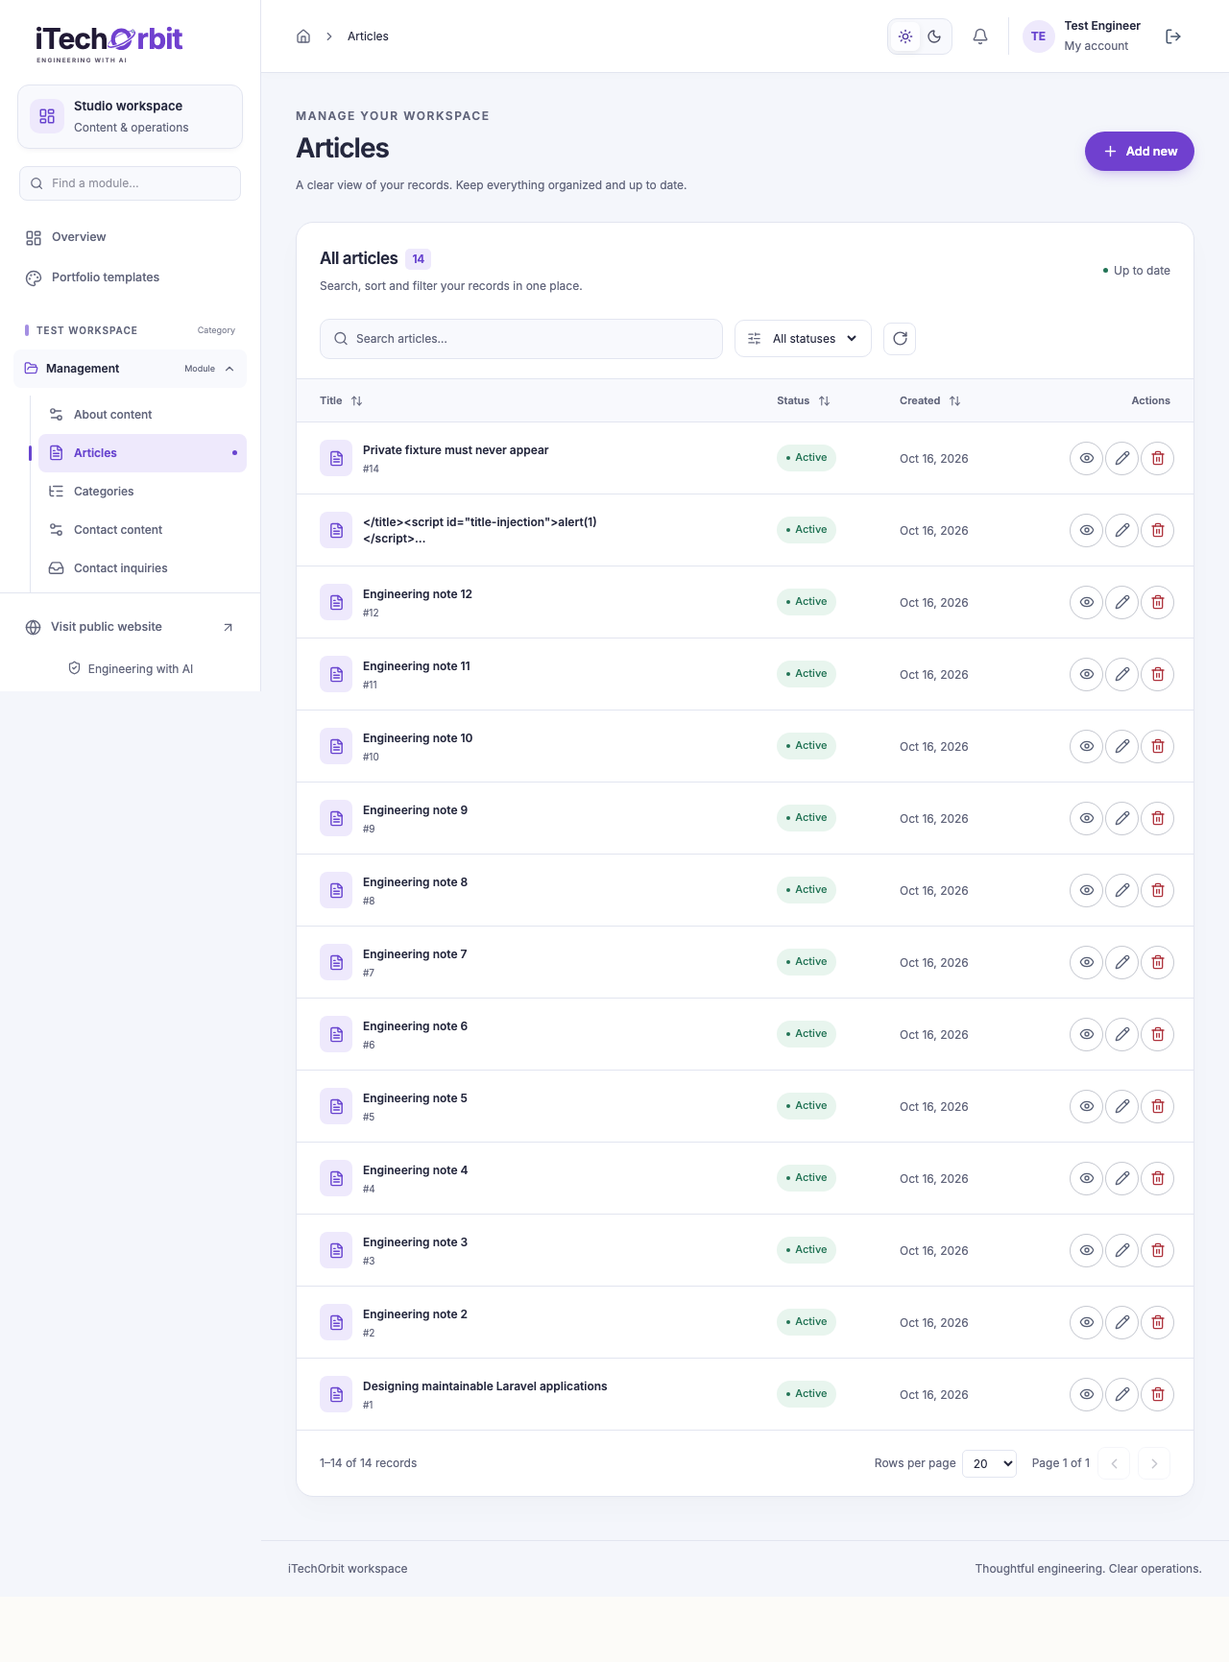
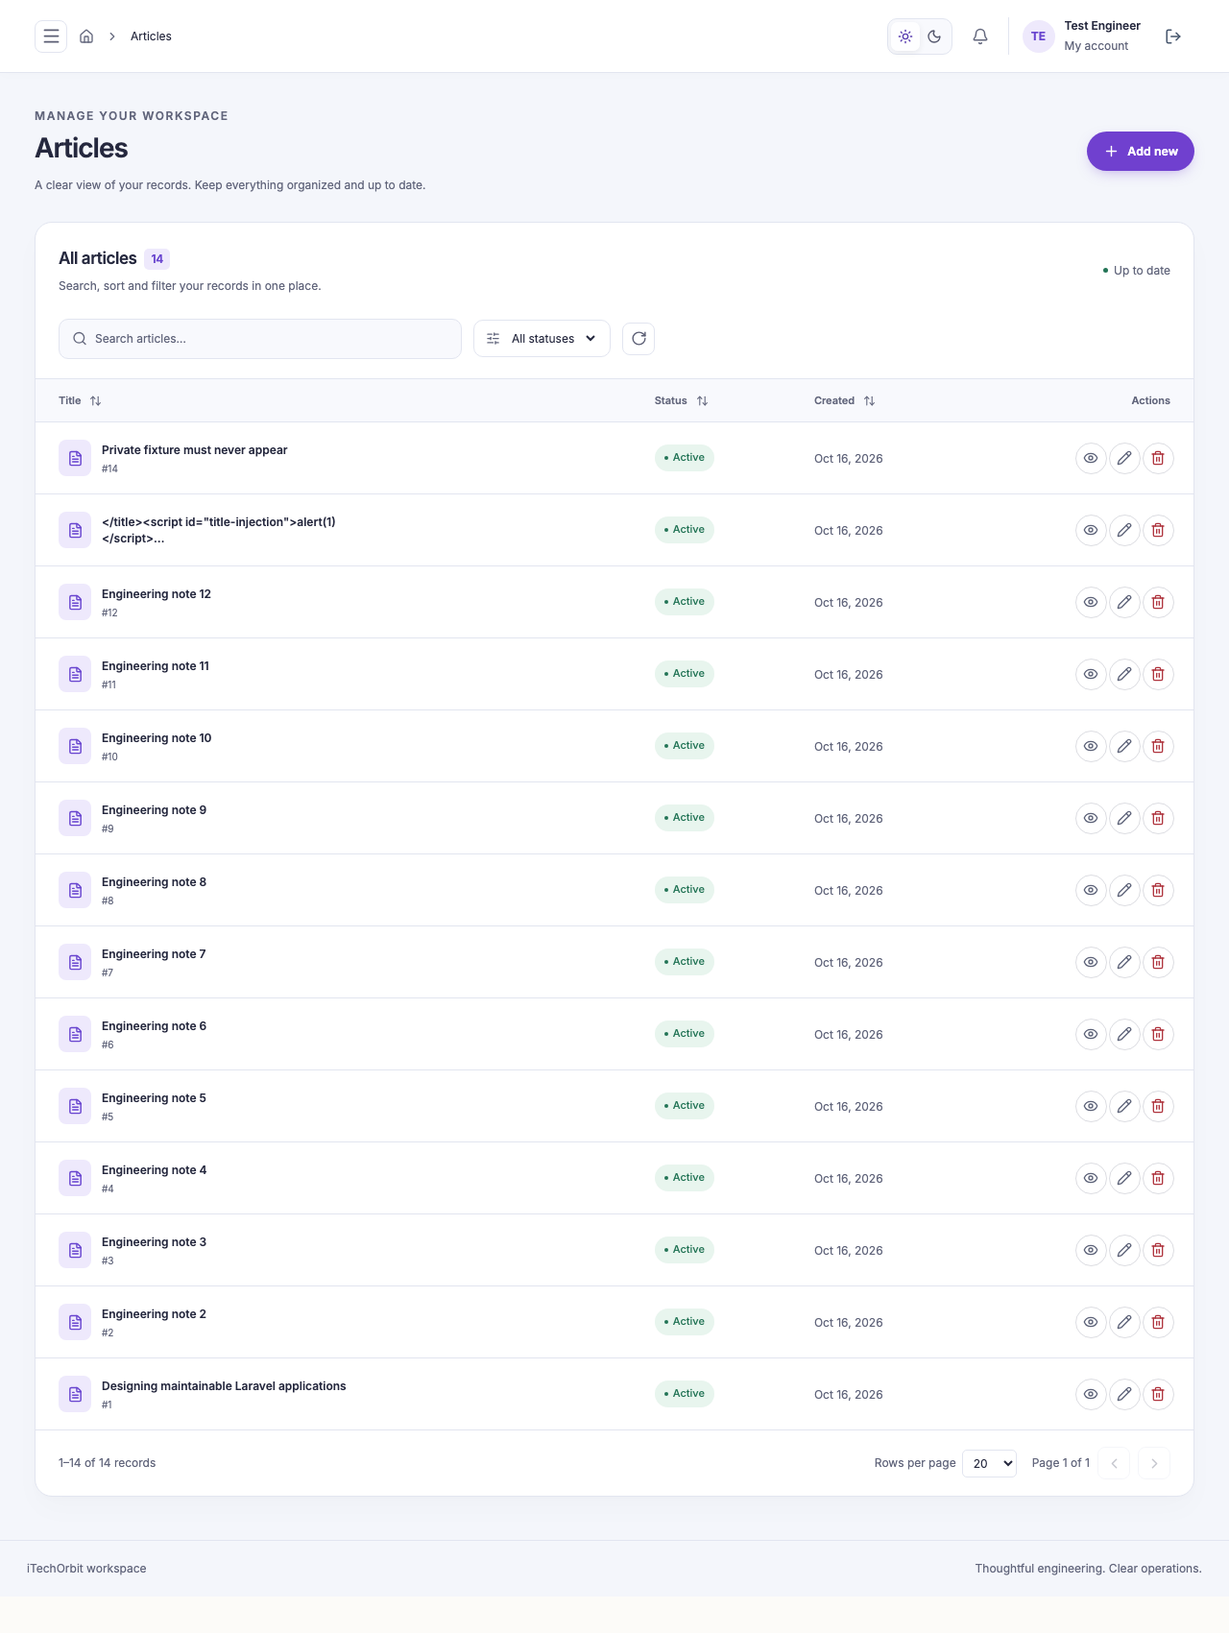
Start workspace sidebar collapsed at every viewport

diff --git a/resources/js/layouts/AdminLayout.tsx b/resources/js/layouts/AdminLayout.tsx
@@ -26,10 +26,8 @@ export default function AdminLayout({ children, title, navigation }: { children:
       if (event.shiftKey && document.activeElement === first) { event.preventDefault(); last?.focus(); }
       else if (!event.shiftKey && document.activeElement === last) { event.preventDefault(); first?.focus(); }
     };
-    const desktop = window.matchMedia('(min-width: 1024px)');
-    const resize = () => { if (desktop.matches) setOpen(false); };
-    document.addEventListener('keydown', keys); desktop.addEventListener('change', resize);
-    return () => { document.body.style.overflow = previous; document.removeEventListener('keydown', keys); desktop.removeEventListener('change', resize); };
+    document.addEventListener('keydown', keys);
+    return () => { document.body.style.overflow = previous; document.removeEventListener('keydown', keys); };
   }, [open]);
   const groups = new Map<string, Map<string, Navigation>>();
   for (const item of navigation.filter(item => `${item.label} ${item.group ?? ''} ${item.module ?? ''}`.toLowerCase().includes(search.toLowerCase()))) {
@@ -43,7 +41,7 @@ export default function AdminLayout({ children, title, navigation }: { children:
   const initials = auth.user?.name.trim().split(/\s+/).slice(0, 2).map(word => word[0]).join('').toUpperCase();
   return <div className="workspace" data-theme={theme}><Head title={`${title} | iTechOrbit workspace`}><meta name="robots" content="noindex,nofollow" /></Head><a className="skip-link" href="#main">Skip to content</a>
     {open && <button className="workspace-overlay" aria-label="Close workspace overlay" onClick={() => { setOpen(false); trigger.current?.focus(); }} />}
-    <aside ref={aside} className={`workspace-sidebar ${open ? 'is-open' : ''}`} role={open ? 'dialog' : undefined} aria-modal={open || undefined} aria-label="Workspace sidebar"><div className="workspace-sidebar-brand"><Link href="/home" className="brand workspace-brand" aria-label="iTechOrbit workspace" onClick={() => setOpen(false)}><BrandLogo /></Link><button className="workspace-mobile-close workspace-icon-button" aria-label="Close workspace navigation" onClick={() => { setOpen(false); trigger.current?.focus(); }}><X size={19} /></button></div>
+    <aside id="workspace-sidebar" ref={aside} className={`workspace-sidebar ${open ? 'is-open' : ''}`} role={open ? 'dialog' : undefined} aria-modal={open || undefined} aria-label="Workspace sidebar"><div className="workspace-sidebar-brand"><Link href="/home" className="brand workspace-brand" aria-label="iTechOrbit workspace" onClick={() => setOpen(false)}><BrandLogo /></Link><button className="workspace-mobile-close workspace-icon-button" aria-label="Close workspace navigation" onClick={() => { setOpen(false); trigger.current?.focus(); }}><X size={19} /></button></div>
       <div className="workspace-sidebar-context"><span className="workspace-context-icon"><LayoutDashboard size={18} /></span><div><strong>Studio workspace</strong><span>Content & operations</span></div></div>
       <label className="workspace-sidebar-search"><Search size={16} aria-hidden="true" /><input aria-label="Find a module" value={search} onChange={event => setSearch(event.target.value)} placeholder="Find a module…" /></label>
       <nav className="workspace-navigation" aria-label="Workspace navigation"><Link href="/home" onClick={() => setOpen(false)} className={`workspace-nav-link ${current === 'home' ? 'is-current' : ''}`} aria-current={current === 'home' ? 'page' : undefined}><LayoutDashboard size={18} /><span>Overview</span></Link><Link href="/workspace/portfolio-templates" onClick={() => setOpen(false)} className={`workspace-nav-link ${url.startsWith('/workspace/portfolio-templates') ? 'is-current' : ''}`} aria-current={url.startsWith('/workspace/portfolio-templates') ? 'page' : undefined}><Palette size={18} /><span>Portfolio templates</span></Link>
@@ -51,6 +49,6 @@ export default function AdminLayout({ children, title, navigation }: { children:
         {!groups.size && <p className="workspace-nav-empty">No matching modules.</p>}
       </nav><div className="workspace-sidebar-footer"><SiteLink href="/" className="workspace-nav-link"><Globe size={17} /><span>Visit public website</span><ArrowUpRight size={15} /></SiteLink><div><ShieldCheck size={15} /><span>Engineering with AI</span></div></div>
     </aside>
-    <div className="workspace-body"><header className="workspace-topbar"><div className="workspace-topbar-start"><button ref={trigger} className="workspace-mobile-trigger workspace-icon-button" aria-label="Open workspace navigation" aria-expanded={open} onClick={() => setOpen(true)}><Menu size={21} /></button><div className="workspace-breadcrumb"><Link href="/home" aria-label="Workspace overview"><Home size={16} /></Link><ChevronRight size={14} /><span>{title}</span></div></div><div className="workspace-topbar-actions"><div className="workspace-theme-switch" role="group" aria-label="Workspace appearance"><button type="button" aria-label="Light theme" aria-pressed={theme === 'light'} title="Light theme" onClick={() => setTheme('light')}><Sun size={16} /></button><button type="button" aria-label="Dark theme" aria-pressed={theme === 'dark'} title="Dark theme" onClick={() => setTheme('dark')}><Moon size={16} /></button></div>{navigation.some(item => item.url === '/contacts') && <Link href="/contacts" aria-label="Contact inquiries" className="workspace-inbox-link"><Bell size={18} /></Link>}<Link href="/account/settings" className="workspace-user" aria-label="Account settings"><span>{initials || 'U'}</span><div><strong>{auth.user?.name}</strong><small>My account</small></div></Link><Button variant="ghost" size="icon" aria-label="Sign out" onClick={() => router.post('/logout')}><LogOut size={18} /></Button></div></header><main id="main" className="workspace-main">{children}</main><footer className="workspace-footer"><span>iTechOrbit workspace</span><span>Thoughtful engineering. Clear operations.</span></footer></div>
+    <div className="workspace-body"><header className="workspace-topbar"><div className="workspace-topbar-start"><button ref={trigger} className="workspace-mobile-trigger workspace-icon-button" aria-label="Open workspace navigation" aria-controls="workspace-sidebar" aria-expanded={open} onClick={() => setOpen(true)}><Menu size={21} /></button><div className="workspace-breadcrumb"><Link href="/home" aria-label="Workspace overview"><Home size={16} /></Link><ChevronRight size={14} /><span>{title}</span></div></div><div className="workspace-topbar-actions"><div className="workspace-theme-switch" role="group" aria-label="Workspace appearance"><button type="button" aria-label="Light theme" aria-pressed={theme === 'light'} title="Light theme" onClick={() => setTheme('light')}><Sun size={16} /></button><button type="button" aria-label="Dark theme" aria-pressed={theme === 'dark'} title="Dark theme" onClick={() => setTheme('dark')}><Moon size={16} /></button></div>{navigation.some(item => item.url === '/contacts') && <Link href="/contacts" aria-label="Contact inquiries" className="workspace-inbox-link"><Bell size={18} /></Link>}<Link href="/account/settings" className="workspace-user" aria-label="Account settings"><span>{initials || 'U'}</span><div><strong>{auth.user?.name}</strong><small>My account</small></div></Link><Button variant="ghost" size="icon" aria-label="Sign out" onClick={() => router.post('/logout')}><LogOut size={18} /></Button></div></header><main id="main" className="workspace-main">{children}</main><footer className="workspace-footer"><span>iTechOrbit workspace</span><span>Thoughtful engineering. Clear operations.</span></footer></div>
   </div>;
 }

diff --git a/tests/browser/website.spec.ts b/tests/browser/website.spec.ts
@@ -70,11 +70,14 @@ test('contact validation and successful inquiry', async ({ page }) => {
 test('authentication, admin CRUD, inbox and permission interface', async ({ page, isMobile }) => {
   await page.goto('/posts'); await expect(page).toHaveURL(/\/login$/);
   await page.getByLabel('Email address').fill('admin@example.test'); await page.getByLabel('Password', { exact: true }).fill('Browser-test-password-42'); await page.getByRole('button', { name: 'Sign in', exact: true }).click(); await expect(page).toHaveURL(/\/(home|posts)$/);
-  if (isMobile) await page.getByRole('button', { name: 'Open workspace navigation', exact: true }).click();
+  await expect(page.getByRole('button', { name: 'Open workspace navigation', exact: true })).toHaveAttribute('aria-expanded', 'false');
+  await expect(page.locator('.workspace-sidebar')).toBeHidden();
+  await page.getByRole('button', { name: 'Open workspace navigation', exact: true }).click();
   const workspaceLogo = page.getByRole('link', { name: 'iTechOrbit workspace', exact: true }).getByRole('img');
   await expect(workspaceLogo).toBeVisible();
   await expect.poll(() => workspaceLogo.evaluate((image: HTMLImageElement) => image.complete && image.naturalWidth > 0)).toBeTruthy();
-  if (isMobile) await page.getByRole('button', { name: 'Close workspace navigation', exact: true }).click();
+  await page.getByRole('button', { name: 'Close workspace navigation', exact: true }).click();
+  await expect(page.locator('.workspace-sidebar')).toBeHidden();
   await page.goto('/posts/create'); await page.getByLabel('Title *', { exact: true }).fill(`Browser CRUD ${isMobile ? 'mobile' : 'desktop'}`); await page.getByLabel('Category *', { exact: true }).selectOption({ label: 'Laravel' }); await page.getByLabel('Body *', { exact: true }).fill('<p>Browser regression article.</p>'); await page.getByRole('button', { name: 'Save changes' }).click(); await expect(page).toHaveURL(/\/posts$/);
   const title = `Browser CRUD ${isMobile ? 'mobile' : 'desktop'}`; await page.getByRole('link', { name: `Edit ${title}`, exact: true }).click(); await page.getByLabel('Title *', { exact: true }).fill(title + ' revised'); await page.getByRole('button', { name: 'Save changes' }).click(); await expect(page).toHaveURL(/\/posts$/); await page.getByRole('button', { name: `Delete ${title} revised`, exact: true }).click(); await expect(page.getByRole('dialog')).toBeVisible(); await page.getByRole('button', { name: 'Delete record', exact: true }).click(); await expect(page.getByText(title + ' revised', { exact: true })).toHaveCount(0);
   await page.goto('/contacts'); await expect(page.getByRole('heading', { level: 1 })).toHaveText('Contact inquiries'); await page.goto('/permissions'); await expect(page.getByLabel('Select role')).toBeVisible(); await page.getByLabel('Select role').selectOption('4'); await expect(page.getByRole('heading', { level: 1 })).toHaveText('Roles & permissions');
@@ -207,14 +210,16 @@ test('header sign-in and account dropdown support profile settings and logout', 
   await page.goto('/account/settings'); await expect(page).toHaveURL(/\/login$/);
 });
 
-test('workspace tables load server-side search sorting pagination and recover from errors', async ({ page, isMobile }, testInfo) => {
+test('workspace tables load server-side search sorting pagination and recover from errors', async ({ page }, testInfo) => {
   await page.goto('/login'); await page.getByLabel('Email address').fill('admin@example.test'); await page.getByLabel('Password', { exact: true }).fill('Browser-test-password-42'); await page.getByRole('button', { name: 'Sign in', exact: true }).click(); await expect(page).toHaveURL(/\/home$/);
   await page.getByRole('button', { name: 'Dark theme', exact: true }).click();
   await expect(page.locator('.workspace')).toHaveAttribute('data-theme', 'dark');
   await page.reload();
   await expect(page.locator('.workspace')).toHaveAttribute('data-theme', 'dark');
   await page.screenshot({ path: testInfo.outputPath('admin-dashboard.png'), fullPage: true });
-  if (isMobile) await page.getByRole('button', { name: 'Open workspace navigation', exact: true }).click();
+  await expect(page.getByRole('button', { name: 'Open workspace navigation', exact: true })).toHaveAttribute('aria-expanded', 'false');
+  await expect(page.locator('.workspace-sidebar')).toBeHidden();
+  await page.getByRole('button', { name: 'Open workspace navigation', exact: true }).click();
   await expect(page.getByRole('navigation', { name: 'Workspace navigation' }).getByText('Test workspace', { exact: true })).toBeVisible();
   await expect(page.locator('.workspace-module-label').first()).toHaveText('Module');
   await expect(page.locator('.workspace-nav-group>p small').first()).toHaveText('Category');
@@ -225,7 +230,9 @@ test('workspace tables load server-side search sorting pagination and recover fr
   await expect(page.getByRole('navigation', { name: 'Workspace navigation' }).getByRole('link', { name: 'Articles', exact: true })).toBeVisible();
   await expect(page.getByRole('navigation', { name: 'Workspace navigation' }).getByRole('link', { name: 'Categories', exact: true })).toHaveCount(0);
   await page.getByLabel('Find a module').fill('');
-  if (isMobile) await page.keyboard.press('Escape');
+  await page.keyboard.press('Escape');
+  await expect(page.locator('.workspace-sidebar')).toBeHidden();
+  await expect(page.getByRole('button', { name: 'Open workspace navigation', exact: true })).toBeFocused();
   await page.goto('/posts');
   await expect(page.locator('.workspace')).toHaveAttribute('data-theme', 'dark');
   await page.evaluate(() => { document.documentElement.dataset.tableDocument = 'retained'; });
@@ -312,7 +319,9 @@ test('portfolio template studio previews five layouts and persists the public se
   test.setTimeout(60000); // Five themes, twenty section-anchor checks and public return navigation.
   const errors: string[] = []; page.on('pageerror', error => errors.push(error.message));
   await page.goto('/login'); await page.getByLabel('Email address').fill('admin@example.test'); await page.getByLabel('Password', { exact: true }).fill('Browser-test-password-42'); await page.getByRole('button', { name: 'Sign in', exact: true }).click(); await expect(page).toHaveURL(/\/home$/);
-  if (isMobile) await page.getByRole('button', { name: 'Open workspace navigation', exact: true }).click();
+  await expect(page.getByRole('button', { name: 'Open workspace navigation', exact: true })).toHaveAttribute('aria-expanded', 'false');
+  await expect(page.locator('.workspace-sidebar')).toBeHidden();
+  await page.getByRole('button', { name: 'Open workspace navigation', exact: true }).click();
   await page.getByRole('link', { name: 'Portfolio templates', exact: true }).click();
   await expect(page.getByRole('radio')).toHaveCount(5);
   await expect(page.getByRole('button', { name: 'Save template', exact: true })).toBeDisabled();

diff --git a/resources/css/admin.css b/resources/css/admin.css
@@ -191,7 +191,7 @@
 .workspace-link-editor button { padding:6px 9px; border-radius:5px; font-size:12px; color:var(--ws-accent); background:var(--ws-accent-soft); }
 .workspace-link-editor p { margin-top:8px; font-size:12px; color:var(--ws-muted); }
 @media(min-width:640px) { .workspace-topbar { padding-inline:30px; } .workspace-main { padding:34px 30px 45px; } .workspace-user div,.workspace-inbox-link { display:block; } .workspace-form-grid,.workspace-record-details { grid-template-columns:repeat(2,minmax(0,1fr)); } .workspace-field.is-wide { grid-column:1/-1; } }
-@media(min-width:1024px) { .workspace-sidebar { display:flex; } .workspace-body { margin-left:272px; } .workspace-mobile-trigger,.workspace-mobile-close,.workspace-overlay { display:none; } .workspace-main { padding:36px 36px 45px; } .workspace-topbar { padding-inline:36px; } }
+@media(min-width:1024px) { .workspace-main { padding:36px 36px 45px; } .workspace-topbar { padding-inline:36px; } }
 @media(min-width:1280px) { .workspace-resource-form { grid-template-columns:minmax(0,1fr) 280px; } }
 @media(max-width:639px) { .workspace-topbar { gap:8px; padding-inline:16px; } .workspace-topbar-actions { gap:5px; } .workspace-breadcrumb { font-size:12px; gap:7px; } .workspace-page-heading h1 { font-size:26px; } .workspace-table-heading,.workspace-table-tools { padding-inline:18px; } .table-live-state { display:none; } .workspace-search { width:100%; } .workspace-table-footer { padding-inline:18px; } .workspace-card-heading,.workspace-form-grid { padding:20px; } .workspace-form-actions>span { display:none; } .workspace-form-actions>div { width:100%; justify-content:flex-end; } }
 .workspace-overview-label { display:flex; align-items:center; gap:7px; color:var(--ws-muted); font-size:12px; }

diff --git a/docs/ADMIN_MODERNIZATION.md b/docs/ADMIN_MODERNIZATION.md
@@ -79,3 +79,7 @@ The existing authenticated server-side endpoint continues to handle debounced se
 51 PHP tests / 1,104 assertions, 3 frontend tests and all 34 browser checks pass, as do TypeScript, ESLint, Pint and client/SSR production builds. Reviewed synthetic captures include [dark table](assets/admin-table-dark-desktop.png), [light table](assets/admin-table-desktop.png), [dark editor](assets/admin-editor-dark-desktop.png) and [mobile editor](assets/admin-editor-dark-mobile.png). Tests verify actual AJAX requests, sorting/search/pagination and error recovery, persistence of both themes, permission-sensitive flows and safe formatting round trips. No Lighthouse score is claimed.
 
 Deploy the matching PHP/config files and rebuilt client/SSR assets using the existing approved staging workflow; refresh the configuration cache if used and restart SSR. There are no new environment variables, migrations or external services. Revert this change and rebuild matching assets/config cache to roll back; saved rich content remains intact, though an older release will omit the new font-size/font-family presentation. No data rollback is required. Production deployment was not performed.
+
+
+## Sidebar default state — 2026-10-16
+The workspace sidebar now starts collapsed on both desktop and mobile. A visible topbar menu button opens the navigation drawer without reserving an empty left column. The same close button, overlay, Escape dismissal, body-scroll lock and focus trap/restoration work at every viewport. Selecting a workspace link closes the drawer. The menu toggle exposes its expanded state and controls the identified sidebar. Existing authorized categories, modules, page links, search and ordering remain available when expanded. The theme preference continues to persist independently of sidebar state. No backend, data or environment changes are required.

diff --git a/docs/COMPLETION_REPORT.md b/docs/COMPLETION_REPORT.md
@@ -223,3 +223,7 @@ Implemented bounded font-size/font-family editor controls, rich-text project con
 Validation: 51 PHP tests / 1,104 assertions, 3 frontend tests, all 34 desktop/mobile browser checks, TypeScript, ESLint, Pint and client/SSR production builds pass. Both themes and the editor/table were visually reviewed using synthetic data; captures are under docs/assets. Tests include safe formatting persistence into public content and reopening, unsafe input removal, theme persistence, actual server-side queries, permissions and regression flows. No real records, environment configuration, production data or deployment were changed. No performance score was measured.
 
 Release/rollback and behavior are documented in ADMIN_MODERNIZATION.md. Deploy matching PHP/config and assets, refresh cached configuration where used, and restart SSR through the approved staging workflow. No migration or new service is needed. Roll back by reverting the change and rebuilding corresponding assets/config; existing rich content is retained.
+
+
+### Sidebar collapsed initially — 2026-10-16
+The sidebar starts collapsed on all viewport sizes. The topbar menu button is always visible, and the navigation drawer uses the existing close button, overlay, Escape/focus behavior and link-close handling. Removed the desktop forced-open rule and reserved left margin. All 8 affected desktop/mobile browser checks, TypeScript, lint and client/SSR builds pass after fixing the legacy desktop override discovered in the first run. Updated captures reflect the full-width collapsed workspace. No database/environment changes. Build/deploy matching assets and restart SSR via the existing approved release workflow; revert this commit and rebuild to roll back.

diff --git a/docs/IMPLEMENTATION_CHECKLIST.md b/docs/IMPLEMENTATION_CHECKLIST.md
@@ -281,3 +281,9 @@ Status legend: [x] implemented/verified, [ ] pending. Updated continuously; inco
 - [x] Add persistent light/dark workspace theme and clear category/module/page hierarchy; keep ordering and server-side permissions.
 - [x] Refine server-side list presentation, status badges, action states, filter summaries/reset and live feedback; retain authenticated, scoped endpoints.
 - [x] Verify 51 PHP tests / 1,104 assertions, 3 frontend tests, all 34 desktop/mobile browser checks, TypeScript, lint, Pint and client/SSR builds. Formatting survives save/reopen/public display; unsafe formatting is rejected; both themes persist through reload/navigation. Review and save light/dark captures. Initial category-label assertion caught the new marker text being combined with the group name; keep the group name in its own span.
+
+
+## Sidebar collapsed by default — 2026-10-16
+- [x] Remove desktop-only forced-open sidebar and reserved left margin. Start collapsed on every viewport with a visible menu toggle and matching aria-controls.
+- [x] Reuse the navigation drawer, close button, overlay, Escape dismissal and focus trap/restoration for desktop and mobile.
+- [x] All 8 affected desktop/mobile browser scenarios pass, including default collapse, drawer controls, Escape/focus restoration, navigation, CRUD, tables, editor and template chooser. Types, lint and client/SSR builds pass. Initial desktop checks exposed the remaining legacy forced-open rule; remove it and rerun successfully. Refresh captures.
